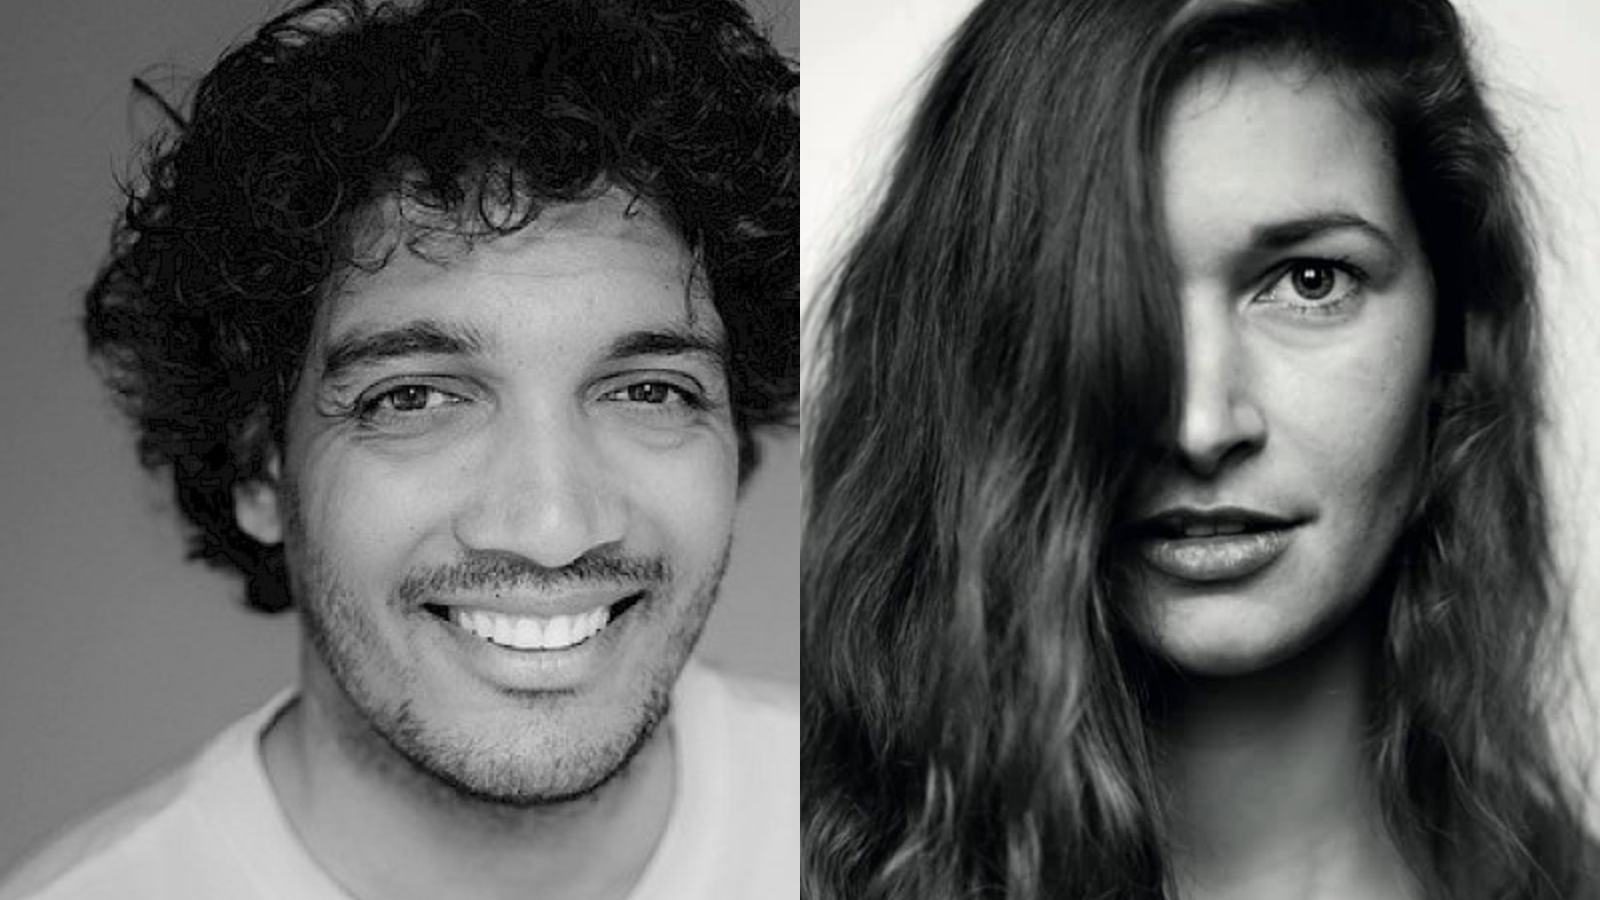
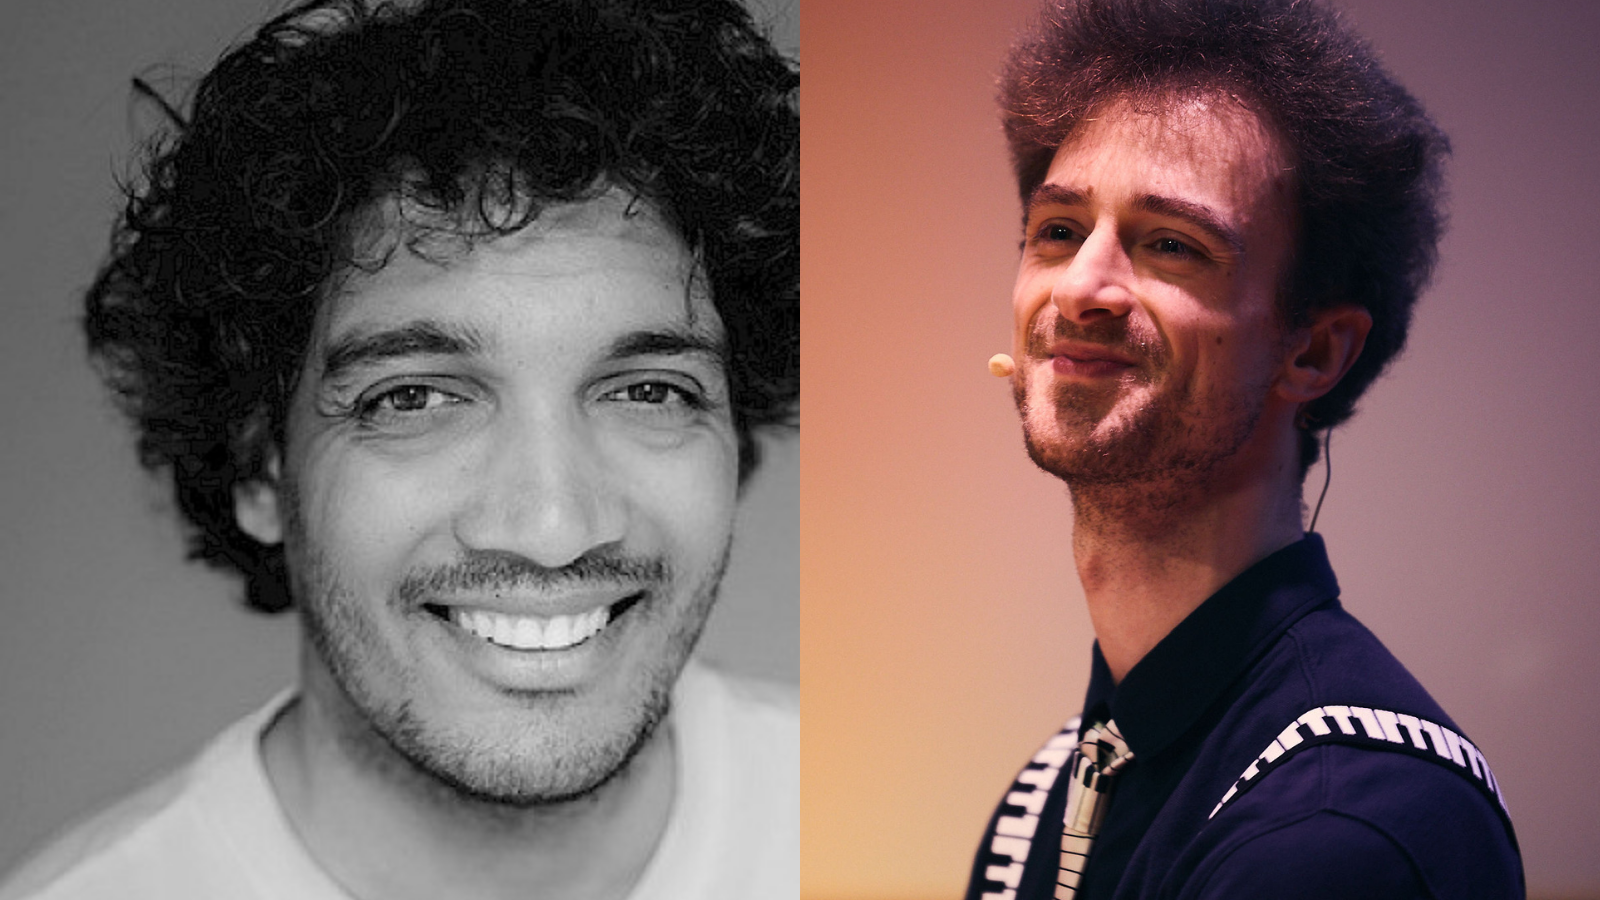
wenting

diff --git a/content/agenda/post26-8-WagenaarZonneveld/index.md b/content/agenda/post26-8-WagenaarZonneveld/index.md
@@ -1,15 +1,15 @@
 +++
-title = 'Tommy Zonneveld & Jasmijn Wagenaar'
-slug = 'zonneveld-wagenaar'
+title = 'Tommy Zonneveld & Tobias Wenting'
+slug = 'zonneveld-wenting'
 layout = 'agenda'
 ticketURL = 'https://fijtenfictie.stager.co/shop/default/events/111687684?utm_campaign=ZonneveldWagenaar&utm_source=website'
-description = "Veelzijdige comedy en meeslepend muziektheater: deze avond met Tommy Zonneveld en Jasmijn Wagenaar heeft het allemaal!"
+description = "Veelzijdige comedy en meeslepend virtuoze kleinkunst: deze avond met Tommy Zonneveld en Tobias Wenting heeft het allemaal!"
 date = 2026-08-12T00:30:00+02:00
 expiryDate = 2026-09-12T20:30:00+02:00
 draft = false
 highlight = 2
 imgsrc = "image0.png"
-imgalt = "Tommy Zonneveld & Jasmijn Wagenaar"
+imgalt = "Tommy Zonneveld & Tobias Wenting"
 imgclass = "article-image"
 tags = ['red','green','blue']
 auteurs = ['Pim Fijt']
@@ -18,7 +18,7 @@ hiddenPage = false
 
 **Tommy Zonneveld** is een veelzijdig acteur en theatermaker, bekend van zijn werk in televisiecommercials, film en op het Nederlandse theatercircuit. Na zijn afstudeervoorstelling, waarmee hij op meerdere festivals speelde, ontwikkelde hij eigen voorstellingen waarin thema’s als identiteit en humor samenkomen. Momenteel is hij te zien in een grote rol in de Amazon Prime-film *Vleesdag* en in het AVROTROS-programma *Keurmeesters*. Dit jaar stond hij bovendien met een nieuw soloprogramma op het Delft Fringe Festival. Daarnaast staat Tommy regelmatig in comedyclubs, werkt hij aan nieuwe theaterprojecten en schrijft hij aan een Nederlandse comedyserie.
 
-Ben jij klaar voor ware liefde? Kruip met ons tussen de veren en laat je verleiden door een orgastisch meezingspektakel over intimiteit, liefde en de zoektocht naar verlichting. *Geef me vleugels* is een magisch realistische muziektheatervoorstelling van **Jasmijn Wagenaar** die je langs grote hoogtes en door diepe dalen leidt en je op plekken brengt waarvan je niet wist dat ze bestonden. Vaar mee op deze woeste, kolkende rivier waarin donker en licht elkaar hartstochtelijk kussen en geen geheim onbesproken blijft. Durf jij het aan? Maak je borst maar nat, want de liefde komt! 
+Tegenwoordig komt alles in *Full HD* onze woonkamer binnen, haarscherp en luid. **Tobias Wenting** onderzoekt hoe het is om een stapje terug te doen, om in vage lijnen en kleuren ineens een mooi tafereel te kunnen onderscheiden. Tobias speelt piano vanaf zijn zevende. Na zijn klassiek pianostudie, besloot hij zijn blikveld te verruimen door Compositie voor Film en Theater te studeren aan ArtEZ Arnhem. Op ArtEZ kwamen zijn liefde voor pianospelen, componeren, zingen en tekstschrijven samen binnen de Nederlandse kleinkunst. Tobias zijn theaterwerk omvat virtuoze muzikale en tekstuele verrassingen. Hij is voortdurend op zoek naar onconventionele manieren waarop muziek en tekst samen kunnen komen. Naast zijn werk als pianist en theatermaker is Tobias als arrangeur en componist betrokken bij verschillende theater- film- en gameprojecten in binnen en buitenland. Deze avond speelt hij voor ons zijn nieuwste materiaal.
 
 **De zaal is open vanaf 20:00 uur, het programma gaat van start om 20:30 uur.**
 
